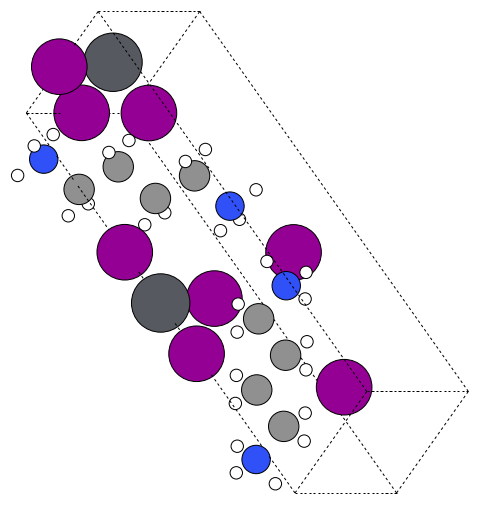
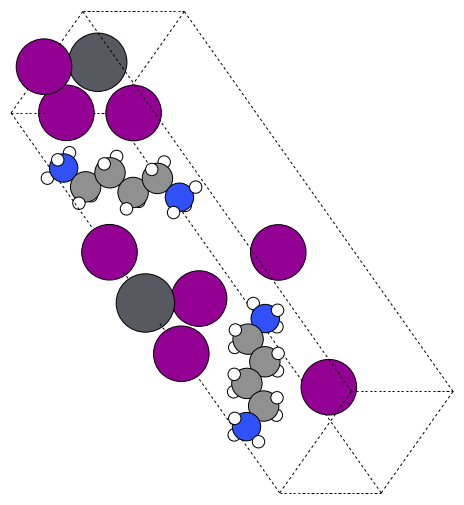
docs: enhance documentation and development environment
- Add scientific references to README acknowledging related work in perovskite generation
- Improve gallery descriptions to clearly demonstrate q2D-Materials capabilities:
  * Layer stacking flexibility
  * Automated octahedral tilting
  * Hybrid organic-inorganic assembly
  * Multi-view structural analysis
  * Twisted interface engineering
- Streamline flake.nix with only essential dependencies and improved shell message
- Regenerate documentation images with updated parameters
- Fix .gitignore to not include itself

diff --git a/README.md b/README.md
@@ -2,7 +2,7 @@
 
 # q2D-Materials: Stacking-first perovskite architecture
 
-q2D-Materials is a template-driven library for stacking quasi-2D and bulk perovskites. Instead of shipping a single geometry, we provide a set of hackable layer types (`L1`, `RP1`, `M1`, …) that you can arrange however you want—much like an architecture studio that swaps floor plates. Our tooling then handles ion assignment, molecular alignment, Glazer tilts, spacer orientation, and export. Because everything is encoded as JSON templates you can version-control, you are free to invent new stack types without editing the core library.
+q2D-Materials is a template-driven library for stacking quasi-2D and bulk perovskites. Instead of shipping a single geometry, we provide a set of hackable layer types (`L1`, `RP1`, `M1`, …) that you can arrange however you want—much like an architecture studio that swaps floor plates. Our tooling then handles ion assignment, molecular alignment, Glazer tilts, spacer orientation, and export. Because everything is encoded as JSON templates you can version-control, you are free to invent new stack types without editing the core library. Our framework providing a fully hackable, layer-sequence-driven approach that decouples geometry from composition.
 
 ## Reproducible hacking (Nix encouraged)
 
@@ -106,15 +106,21 @@ Regenerate every figure with `nix develop -c python3 Examples/plot.py` and brows
 - `Examples/7_DionJacobson.md`
 - `Examples/8_Ruddlessden_Popper.md`
 
-## Gallery — stacking capabilities
+## Gallery — program capabilities
 
-| Image | What it shows |
+| Image | What it demonstrates |
 | --- | --- |
-| ![Creator storyboard](Examples/images/creator-L1-L2-L1.png) | **Template storyboard** – swap `layer_sequence` (`L1`, `L1-L2`, …) to grow a structure without touching Cartesian data. |
-| ![Glazer top view](Examples/images/glazer-tilted-top.png) | **Glazer tilts** – same template, different angle/pattern pairs, perfect for top-down comparisons. |
-| ![DJ slab](Examples/images/dj_bulk.png) | **Dion–Jacobson stacks** – double spacers bridging mirrored S# sites in the reduced template. |
-| ![RP plan](Examples/images/rp_glazer_top.png) ![RP side](Examples/images/rp_base_side.png) ![RP iso](Examples/images/rp_atomic_side.png) | **Ruddlesden–Popper slabs** – plan, elevation, and isometric glimpses of stepped RP architectures. |
-| ![Twist workflow](Examples/images/twist-bilayer.png) | **Twisted bilayer** – two monolayers, independent chemistries, twisted and stacked with set gaps. |
+| ![Creator storyboard](Examples/images/creator-L1-L2-L1.png) | **Layer stacking flexibility** – Shows how changing just the `layer_sequence` parameter builds increasingly complex structures from the same template, demonstrating automated layer assembly and ion population. |
+| ![Glazer top view](Examples/images/glazer-tilted-top.png) | **Automated octahedral tilting** – Illustrates how the framework automatically applies Glazer tilt patterns to break cubic symmetry, enabling systematic exploration of perovskite distortions. |
+| ![DJ slab](Examples/images/dj_bulk.png) | **Hybrid organic-inorganic assembly** – Demonstrates automated molecular spacer attachment between perovskite layers, with precise control over spacer orientation and penetration depth. |
+| ![RP plan](Examples/images/rp_glazer_top.png) ![RP side](Examples/images/rp_base_side.png) ![RP iso](Examples/images/rp_atomic_side.png) | **Multi-view structural analysis** – Shows the same Ruddlesden-Popper structure from plan, elevation, and isometric perspectives, highlighting stepped layer architectures and surface termination. |
+| ![Twist workflow](Examples/images/twist-bilayer.png) | **Twisted interface engineering** – Demonstrates the creation of twisted bilayer perovskites with controlled interlayer distances and arbitrary twist angles, enabling moiré pattern studies. |
+
+## References
+
+[1] Kunz, S. L., Haefner, M., & Clemens, O. "``hexagonal'' perovskites: From stacking sequence to space group symmetry and new opportunities." *Chem. Mater.* 36, 23 (2024).
+
+[2] Stanton, R., & Trivedi, D. J. "Pyrovskite: A software package for the high-throughput construction, analysis, and featurization of two- and three-dimensional perovskite systems." *J. Chem. Phys.* 159, 6 (2023).
 
 ## License
 
